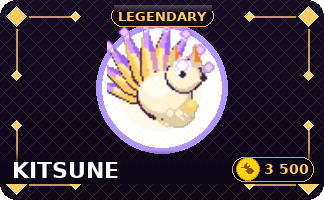
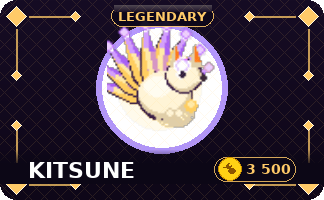
Design 5 baroque: align name and price chip to frame inner edges
Name starts at x=FLOU_INSET+LARGE_PIP_R+2 (just inside left ornament).
Price chip right edge ends at W-FLOU_INSET-LARGE_PIP_R-2 (just inside right ornament).

Claude-Session: https://claude.ai/code/session_01PHa7j1dH3g5BMmmcCU5mZW

Changed region(s): [[0.0309, 0.81, 0.4321, 0.9], [0.6481, 0.78, 0.9568, 0.93], [0.8951, 0.9, 0.9568, 0.93]]

diff --git a/tools/render_baroque_v5_r2.py b/tools/render_baroque_v5_r2.py
@@ -117,13 +117,13 @@ fnt_price = pygame.font.SysFont("DejaVu Sans", 14, bold=True)
 name_s  = fnt_name.render("KITSUNE", True, (255, 255, 255))
 price_s = fnt_price.render("3 500", True, GEM)
 ty = band_y + (FOOTER_H - name_s.get_height()) // 2
-card.blit(name_s, (12, ty))
+card.blit(name_s, (FLOU_INSET + LARGE_PIP_R + 2, ty))
 
 COIN_R   = 11
 CHIP_PAD = 5
 chip_w   = COIN_R * 2 + 5 + price_s.get_width() + CHIP_PAD * 2
 chip_h   = price_s.get_height() + CHIP_PAD * 2 - 2
-chip_x   = W - chip_w - 10
+chip_x   = W - FLOU_INSET - LARGE_PIP_R - 2 - chip_w
 chip_y   = ty + (name_s.get_height() - chip_h) // 2
 chip_surf = pygame.Surface((chip_w, chip_h), pygame.SRCALPHA)
 pygame.draw.rect(chip_surf, (12, 7, 22, 230), (0, 0, chip_w, chip_h), border_radius=chip_h // 2)
